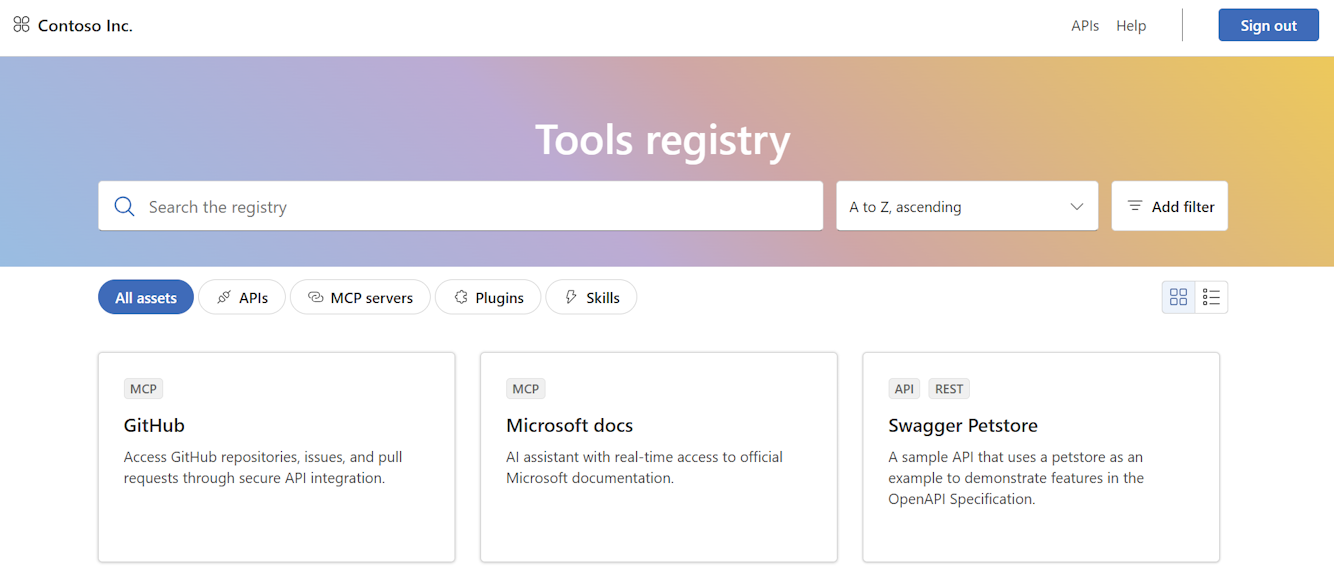
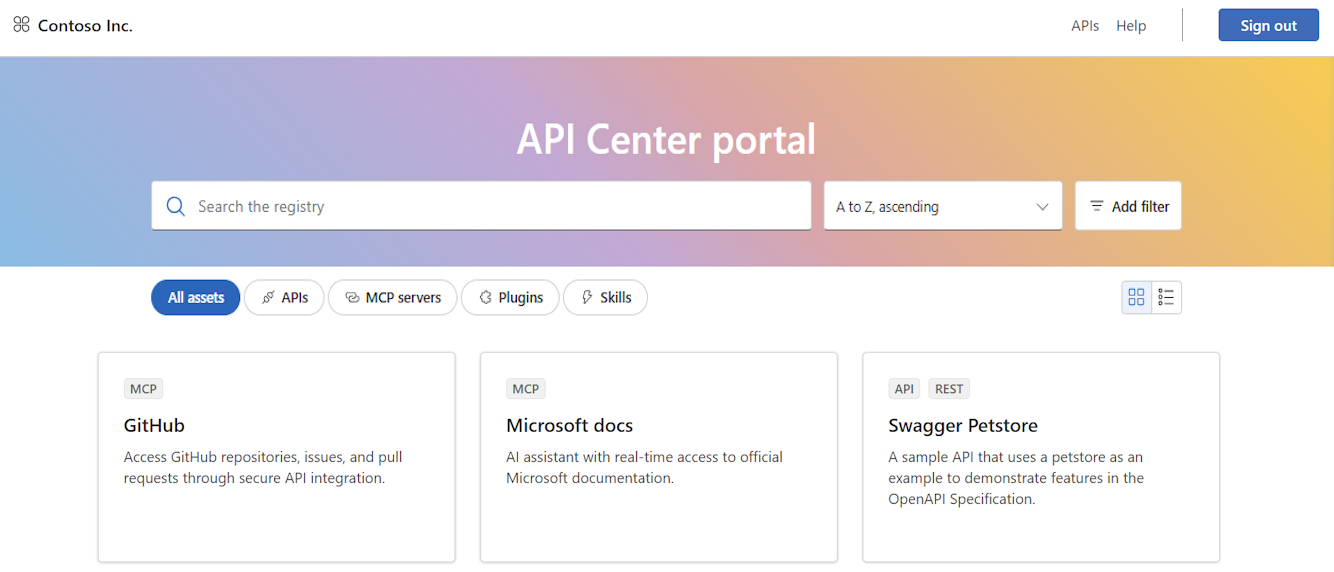
[APIC] Portal, skills GA

diff --git a/articles/api-center/self-host-api-center-portal.md b/articles/api-center/self-host-api-center-portal.md
@@ -4,7 +4,7 @@ description: How to self-host the API Center portal, a customer-managed website 
 
 ms.service: azure-api-center
 ms.topic: how-to
-ms.date: 01/13/2026
+ms.date: 05/01/2026
  
 ms.custom: 
 # Customer intent: As an API program manager, I want to self-host a portal for developers and other API stakeholders in my organization to discover the APIs in my organization's API center.
@@ -14,10 +14,9 @@ ms.custom:
 
 This article shows how to self-host the *API Center portal*, a website that developers and other stakeholders in your organization can use to discover the APIs in your [API center](overview.md). Deploy a reference implementation of the portal from the [API Center portal starter](https://github.com/Azure/APICenter-Portal-Starter.git) repository.
 
-:::image type="content" source="media/self-host-api-center-portal/api-center-portal-signed-in.png" alt-text="Screenshot of the API Center portal after user sign-in.":::
+Self-hosting is an alternative to using the Azure-managed version of the API Center portal. For more information on the Azure-managed portal, see [Set up the API Center portal](set-up-api-center-portal.md).
 
-> [!TIP]
-> New! You can now set up an Azure-managed version of the API Center portal. For more information, see [Set up the API Center portal](set-up-api-center-portal.md).
+:::image type="content" source="media/self-host-api-center-portal/api-center-portal-signed-in.png" alt-text="Screenshot of the API Center portal after user sign-in.":::
 
 ## About self-hosting the portal
 

diff --git a/articles/api-center/set-up-api-center-portal.md b/articles/api-center/set-up-api-center-portal.md
@@ -4,7 +4,7 @@ description: How to set up the API Center portal, a managed website that enables
 
 ms.service: azure-api-center
 ms.topic: how-to
-ms.date: 04/02/2026
+ms.date: 05/01/2026
 ms.update-cycle: 180-days
  
 ms.custom: 
@@ -14,7 +14,7 @@ ms.collection:
 
 # Set up and customize your API Center portal
 
-This article shows you how to set up and customize the *API Center portal* (preview), an Azure-managed website for discovering APIs, MCP servers, and related assets in your [API center](overview.md). 
+This article shows you how to set up and customize the *API Center portal*, an Azure-managed website for discovering APIs, MCP servers, and related assets in your [API center](overview.md). 
 
 The API Center portal supports and streamlines the work of developers who use and create APIs within your organization. Users with access can:
 
@@ -25,9 +25,6 @@ The API Center portal supports and streamlines the work of developers who use an
 * **Try out APIs** with API key or OAuth 2.0 authentication.
 
 :::image type="content" source="media/self-host-api-center-portal/api-center-portal-signed-in.png" alt-text="Screenshot of the API Center portal after user sign-in.":::
-
-> [!NOTE]
-> The API Center portal is currently in preview.
 
 > [!TIP]
 > Both Azure API Management and Azure API Center provide API portal experiences for developers. [Compare the portals](#api-management-and-api-center-portals).

diff --git a/articles/api-center/register-discover-skills.md b/articles/api-center/register-discover-skills.md
@@ -17,9 +17,6 @@ ms.custom:
 
 This article describes how to use Azure API Center to register agent [skills](https://agentskills.io/home) as part of your API inventory. Skills are reusable capabilities that AI agents can discover and consume to extend their functionality.
 
-> [!NOTE]
-> Registering skills in API Center is currently in preview.
-
 By registering skills in your API center, you create a centralized registry that helps your organization:
 
 - Discover available skills and their capabilities
